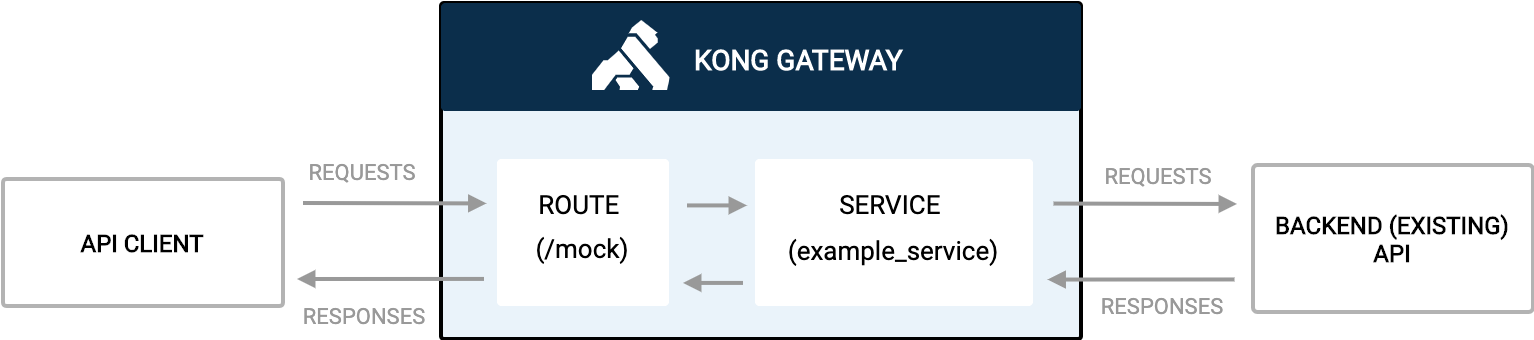
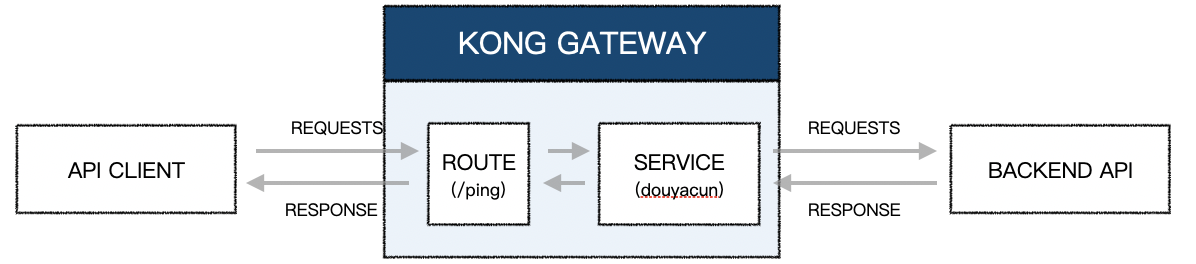
限流

Changed region(s): [[0.0, 0.0, 1.0, 1.0], [0.0, 0.8788, 0.1856, 0.9091]]

diff --git a/architecture/kong基础.md b/architecture/kong基础.md
@@ -1,3 +1,9 @@
+本次目的:
+
+1.  使用docker部署一套kong的环境
+2.  使用kong代理到本地服务
+3.  熟悉kong限流和鉴权
+
 # docker安装
 
 [官网](https://docs.konghq.com/install/docker/?_ga=2.181811879.1832554820.1590497490-1678089697.1590497490) 有完整介绍
@@ -108,4 +114,64 @@ service: 代表后端api服务
 route: 路由到哪个service服务，一个service可以有多个route
 
 ![](./assert/route-and-service.png)
+
+### 创建service
+
+`rest api`
+
+```shell
+$ curl -i -X POST http://localhost:8001/services \
+ --data name=douyacun \
+ --data url='http://docker.for.mac.host.internal:9003'
+```
+
+界面
+
+![](./assert/add-service.png)
+
+### 创建route
+
+`rest api`
+
+```shell
+$ curl --location --request POST '127.0.0.1:8001/services/douyacun/routes' \
+--form 'name=ping' \
+--form 'paths[]=/ping'
+```
+
+界面
+
+![](./assert/add-routes.png)
+
+访问:
+
+```shell
+curl --location --request GET '127.0.0.1:8000/ping'
+# ok
+```
+
+### 限流配置
+
+`rest api` 这样设置，默认是全局配置, 默认是针对consumer,每分钟5次
+
+```shell
+$ curl -i -X POST http://localhost:8001/plugins \
+--data "name=rate-limiting" \
+--data "config.minute=5" \
+--data "config.policy=local"
+```
+
+界面
+
+![](./assert/rate-limit.png)
+
+超过5次以后会返回
+
+```json
+{
+    "message": "API rate limit exceeded"
+}
+```
+
+
 
